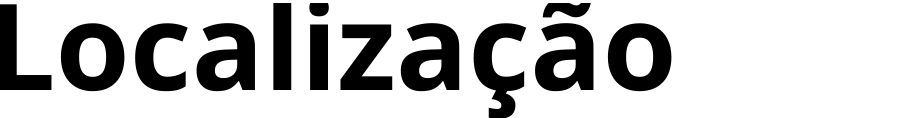
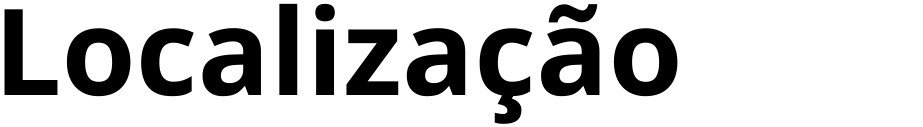
atualização 04

diff --git a/Localização.html b/Localização.html
@@ -62,3 +62,7 @@ Sexta-Feira: Abre às 12:00 · Fecha às 22:00<br>
                     </tr>
                 </thead>
             </table>
+    <br>
+    <br>
+    <br>
+    <img src="img/banner 6.png" width="1500" height="250">

diff --git a/Siga a gente.html b/Siga a gente.html
@@ -62,5 +62,9 @@
             </thead>
         </table>
     </div>
+    <br>
+    <br>
+    <br>
+    <img src="img/banner 5.png" width="1500" height="250">
 </body>
 </html>
